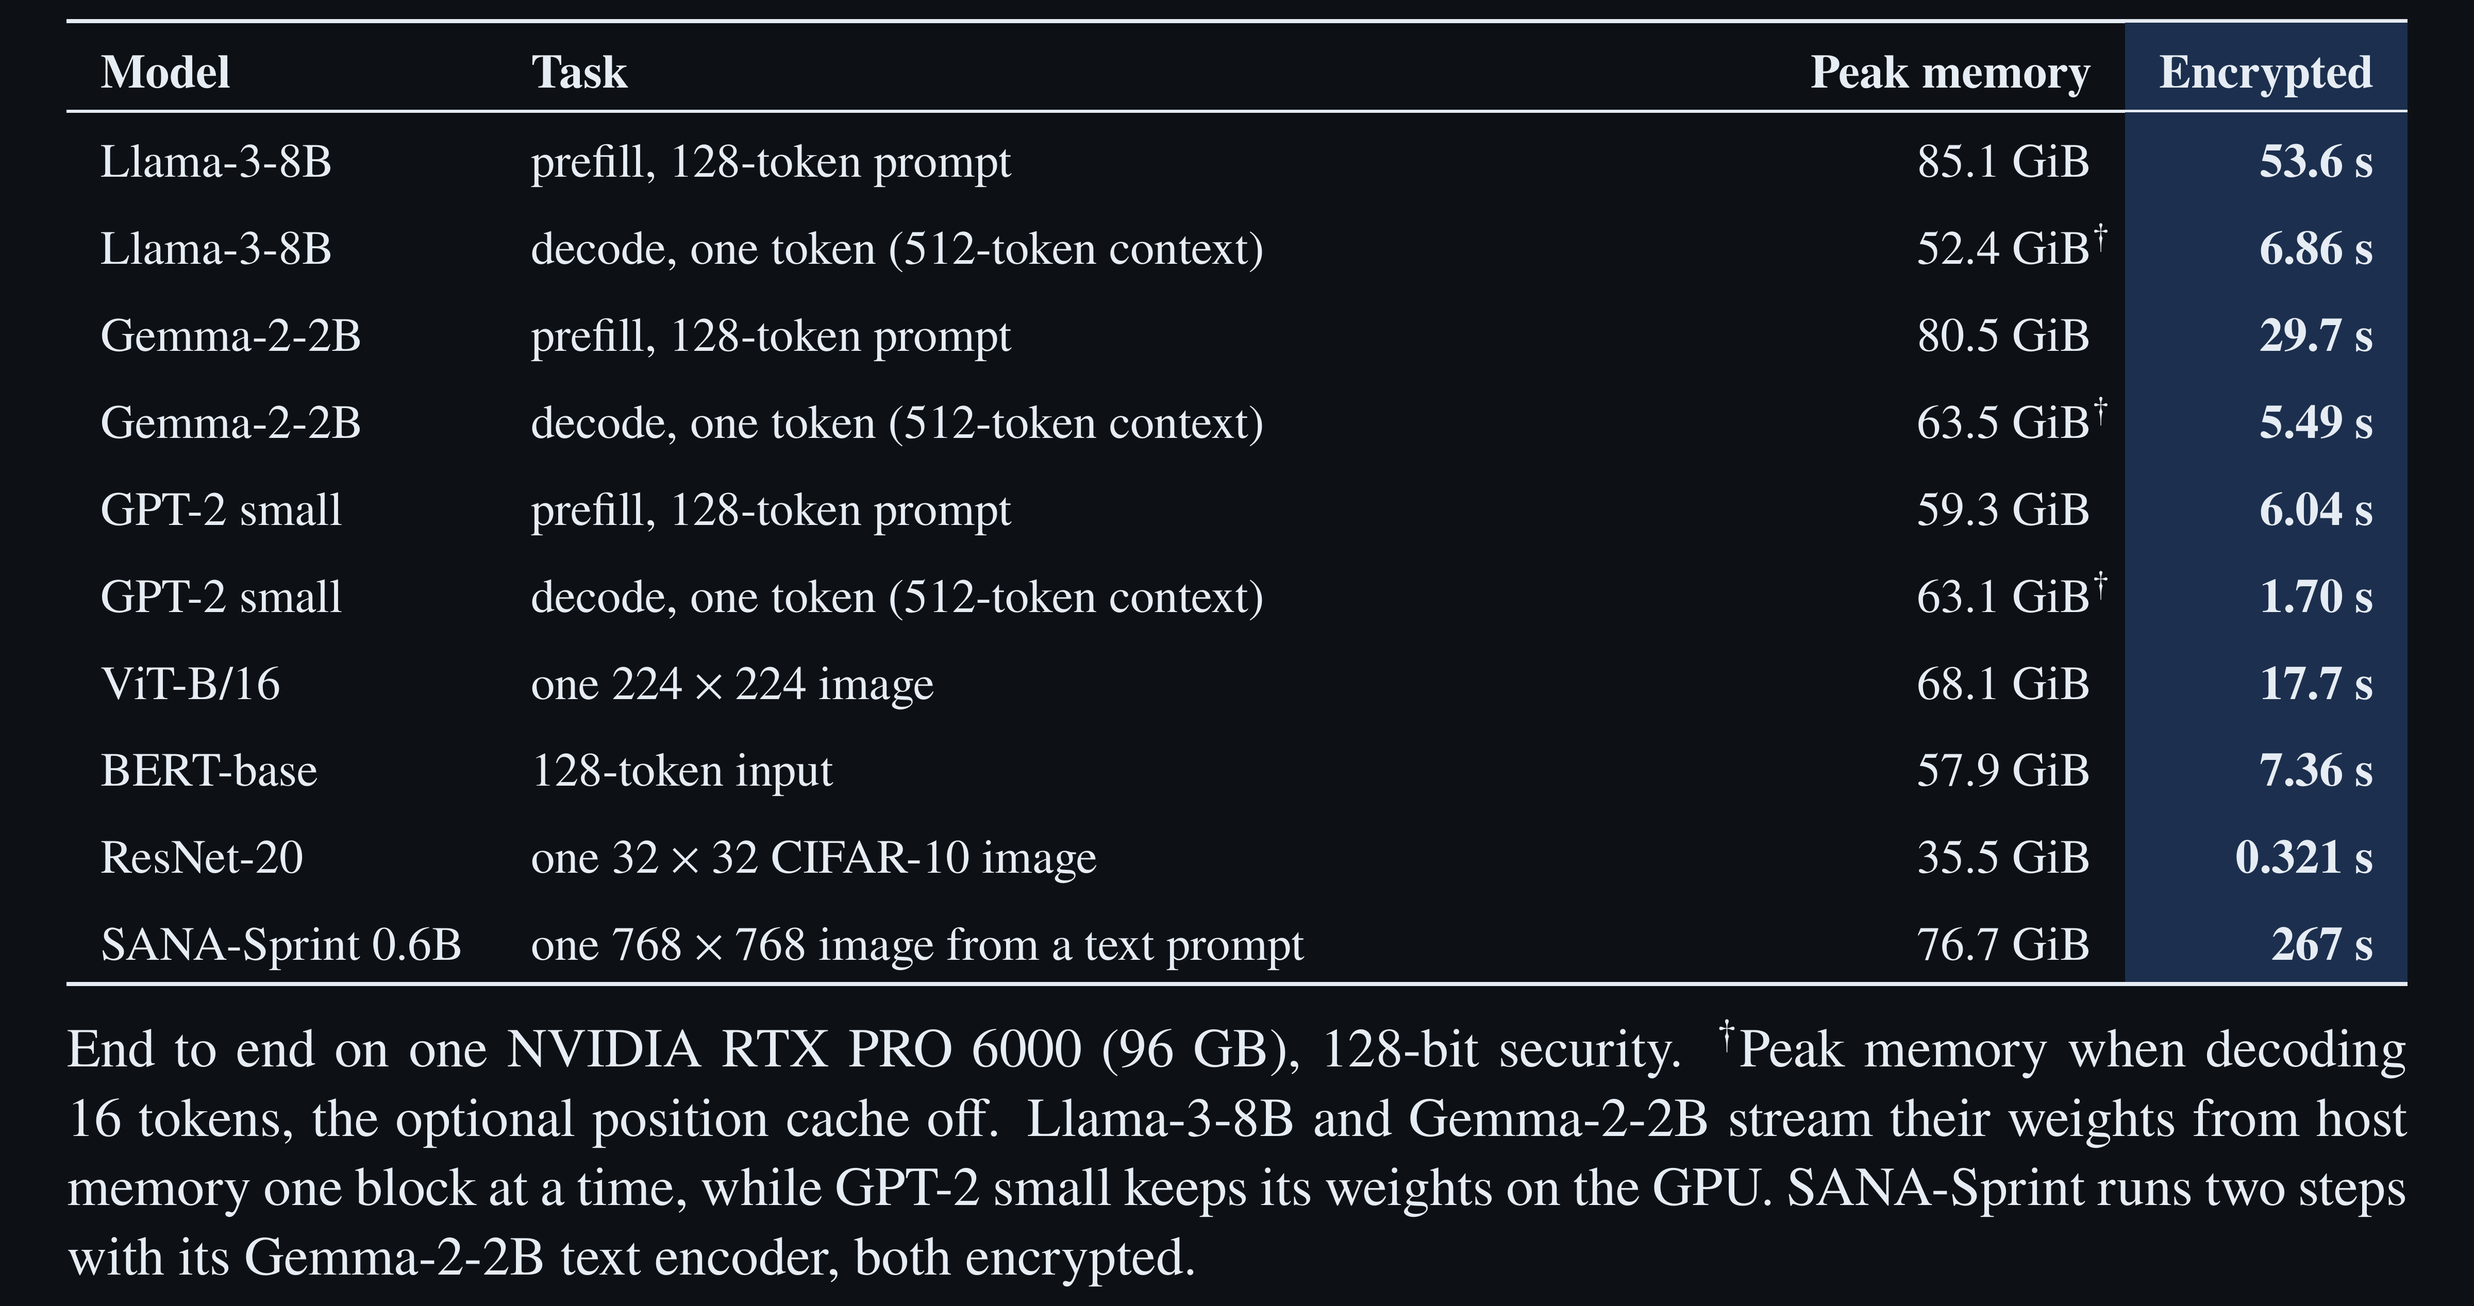
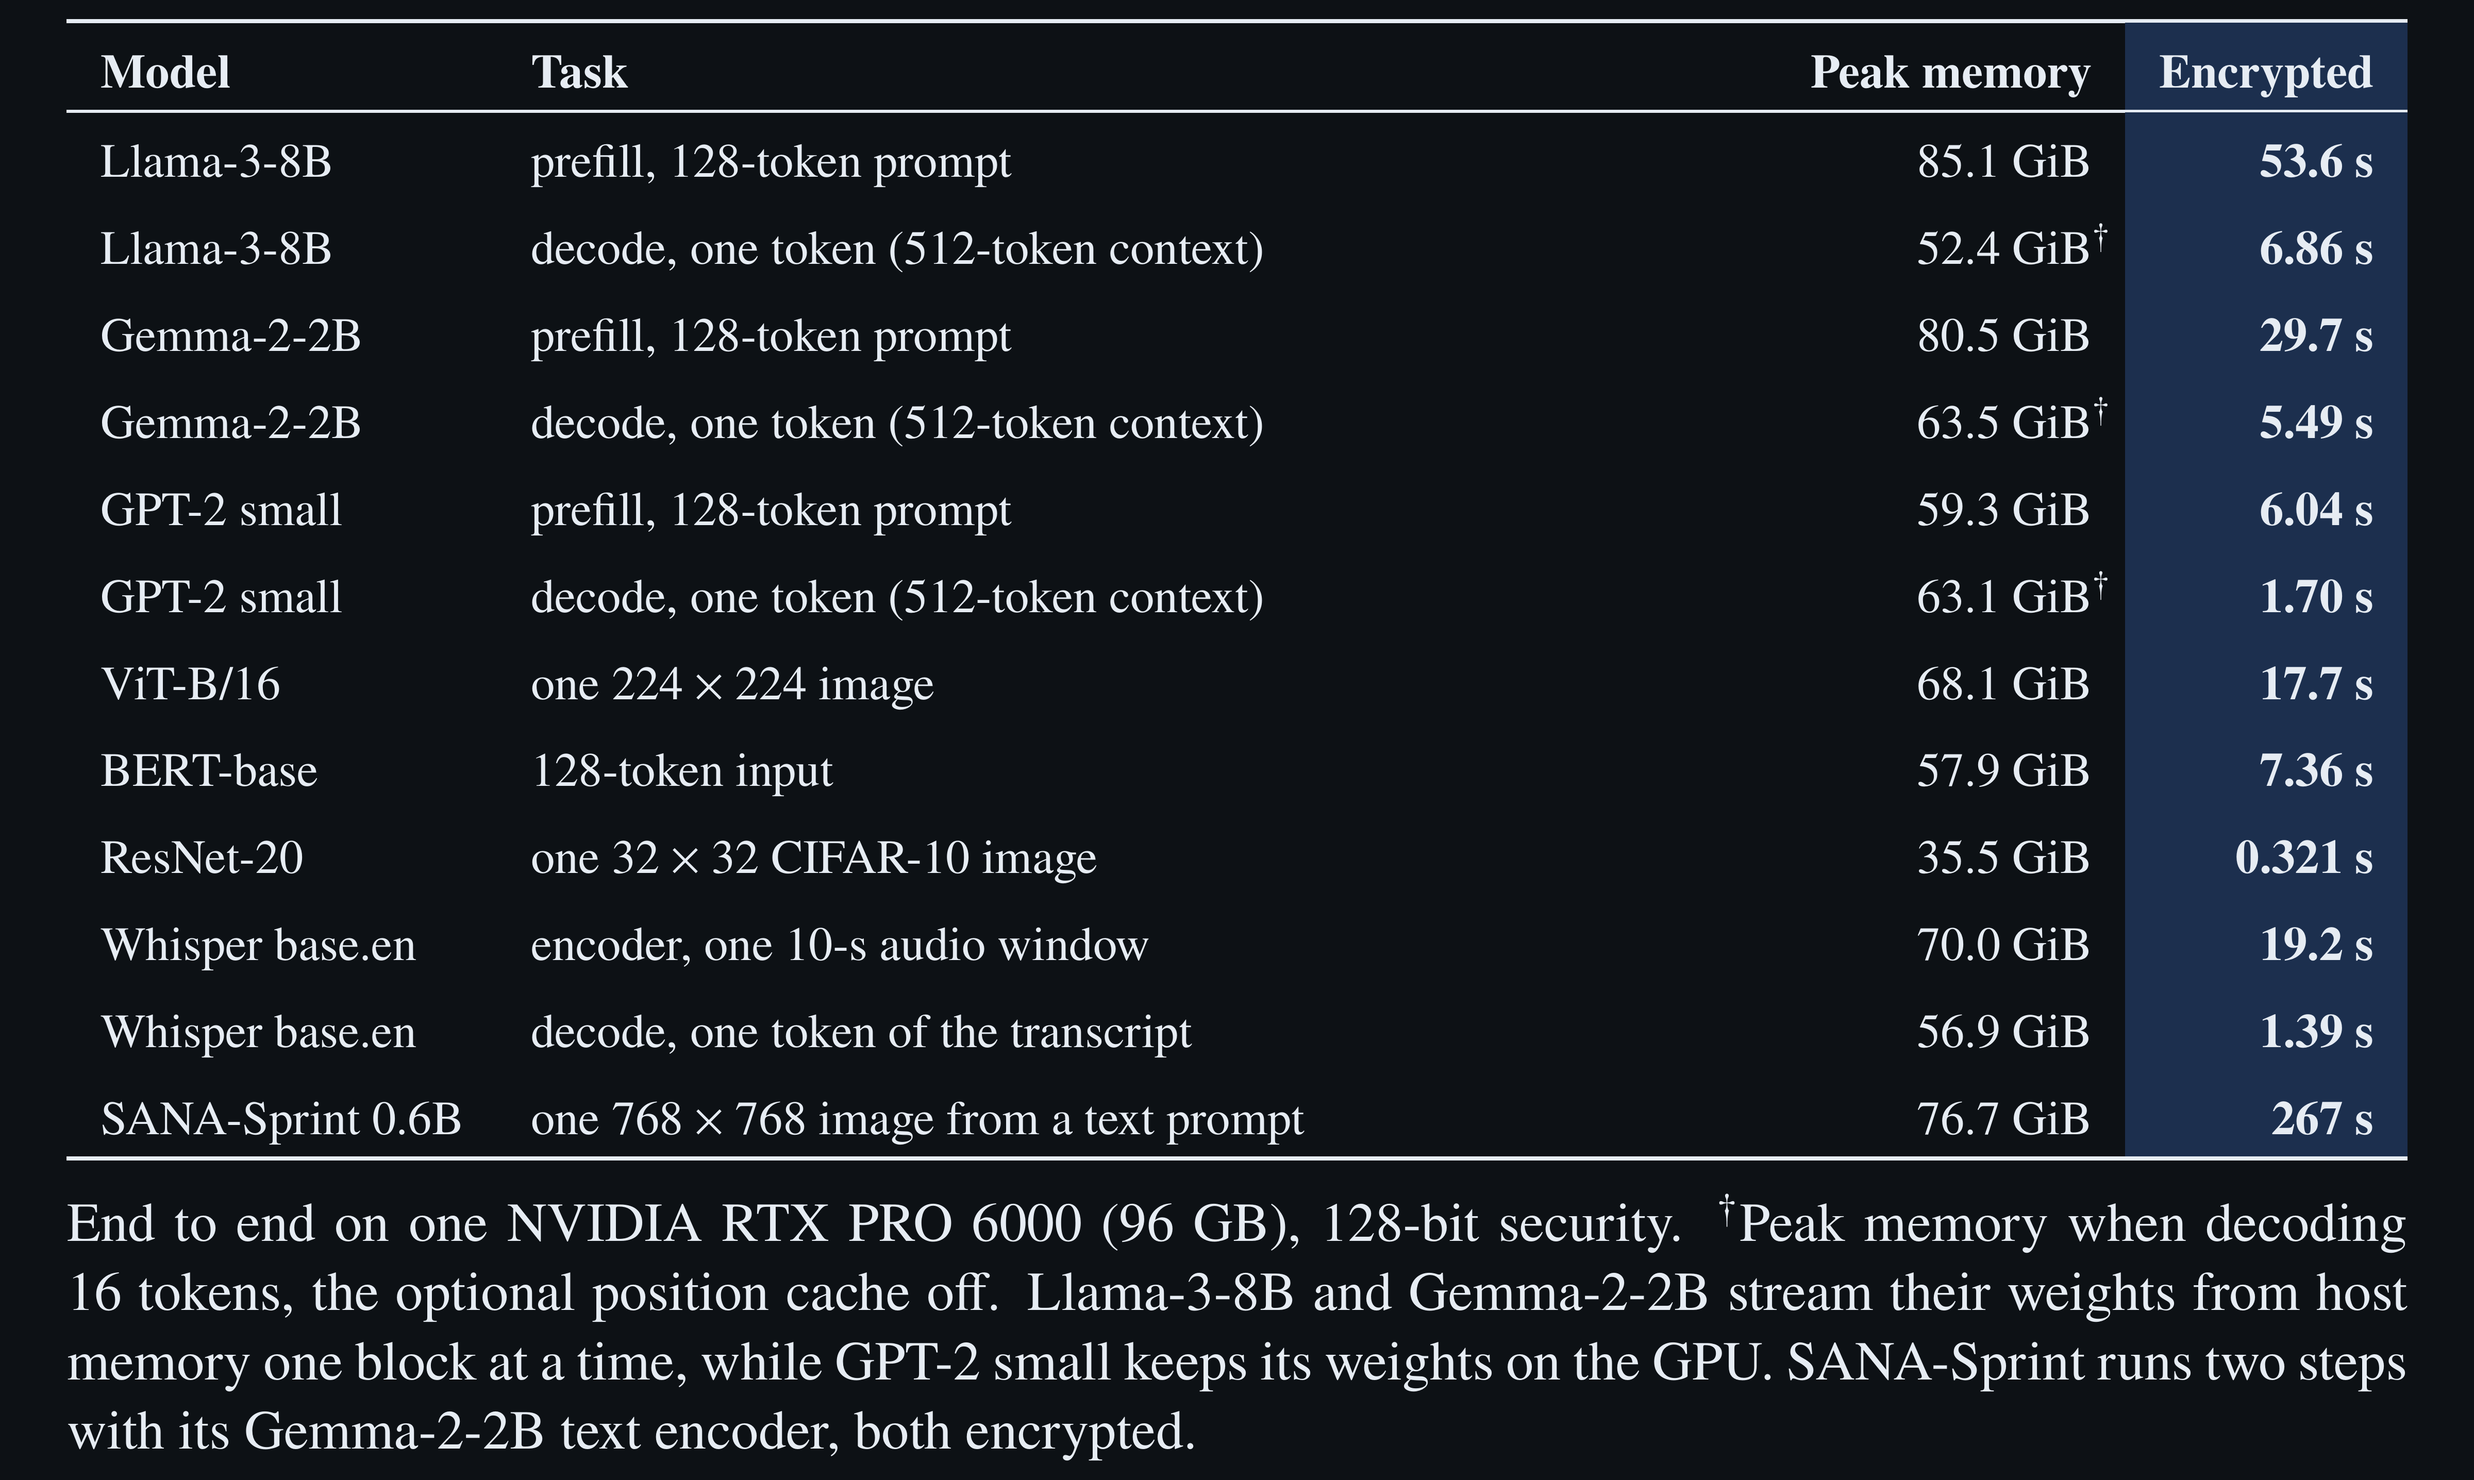
README: Whisper base.en table

diff --git a/assets/paper-tables.tex b/assets/paper-tables.tex
@@ -1,7 +1,7 @@
 % The paper's comparison tables for README.md (paper-org/main.tex, 10-19), one page per table, every table the full
 % line width. Render: bash assets/render.sh paper-tables, which writes paper-tables-<page>-{light,dark}.png in the order
 % of the pages line below. \darkmode switches the palette.
-% pages: overview llama gemma gpt2 vit bert resnet sana core
+% pages: overview llama gemma gpt2 vit bert resnet whisper sana core
 % border: 14pt left and right, 4pt top and bottom (stacked in the README, the tables sit close together)
 \documentclass[border={14pt 4pt 14pt 4pt},varwidth=17.2cm,multi=tbl]{standalone}
 \usepackage{newtxtext,newtxmath}
@@ -30,6 +30,16 @@
 % SANA-Sprint text to image (2026-11-19, the text encoder on the Gemma-2 decoder port, GPU 4 alone: forwards 2 and 3,
 % 266.59 and 266.58 s, after a 318 s first forward; lowest free 18.30 GiB)
 \newcommand{\sanaimg}{267}\newcommand{\sanamem}{76.7}
+% Whisper base.en speech to text (2026-11-21, GPU 4 alone, scripts/repro/whisper_asr.sh, 2 rounds): encoder s/clip the
+% median of the clip walls over one 10-s window (CUDA graphs, the pruned plan with its raise-drop re-pass, 1526 refreshes;
+% 19.16 / 19.16 s), decode s/token the median of the server's token times (forward + argmax drained, the client's
+% decryptions apart; 1.39 / 1.39 s over 64 tokens of 4 clips; contexts up to 64 tokens, cross attention over the 500
+% encoder positions); WER over 64 LibriSpeech test-clean clips <= 8 s spread over the split (Whisper's English
+% normalizer), the float64 greedy's beside it (2026-11-21 gate on these plans: 63/64 transcripts identical, the miss a
+% 0.035-logit near tie); memory per session: the encoder's lowest free 24.96 GiB (graphs), the decoder's 38.1 GiB
+% (PC_PT_CACHE=0 the same, 38.4 GiB on its first clip)
+\newcommand{\whisperenc}{19.2}\newcommand{\whisperdec}{1.39}\newcommand{\whisperencmem}{70.0}\newcommand{\whisperdecmem}{56.9}
+\newcommand{\whisperwer}{4.87}\newcommand{\whisperfloatwer}{4.74}\newcommand{\whisperclips}{64}
 % peak GPU memory, GiB: total (94.97) minus the lowest free of the run (the prefills replay CUDA graphs, captured in
 % the first forward after setup); the decode rows at a short context (the repro scripts' 16 tokens), without the
 % optional position cache (PC_PT_CACHE=0), Llama's and Gemma's the GPU's peak used memory over the run (their runner reports no free
@@ -65,6 +75,8 @@ GPT-2 small & decode, one token (512-token context) & \gptdecmem\ GiB\nt{\dagger
 ViT-B/16 & one $224\times224$ image & \vitmem\ GiB & \textbf{\vitimg\ s} \\
 BERT-base & 128-token input & \bertmem\ GiB & \textbf{\bertin\ s} \\
 ResNet-20 & one $32\times32$ CIFAR-10 image & \resnetmem\ GiB & \textbf{\resnetimg\ s} \\
+Whisper base.en & encoder, one 10-s audio window & \whisperencmem\ GiB & \textbf{\whisperenc\ s} \\
+Whisper base.en & decode, one token of the transcript & \whisperdecmem\ GiB & \textbf{\whisperdec\ s} \\
 SANA-Sprint 0.6B & one $768\times768$ image from a text prompt & \sanamem\ GiB & \textbf{\sanaimg\ s} \\
 \bottomrule
 \end{tabularx}
@@ -177,6 +189,19 @@ Cerium (Jayashankar et al., 2025) & 91.4\% & 0.456\nt{\S} & B200 & \yes \\
 \tcap{Encrypted ResNet-20 inference of one $32\times32$ CIFAR-10 image; top-1 on the CIFAR-10 test set (Perseus: the
 first 1,000 images, the same as its float64 model). Cheddar's library is released, its ResNet-20 is not. $^\S$From the
 paper (0.620 s on H100). \legend}
+\end{tbl}
+
+\begin{tbl}
+\begin{tabularx}{\linewidth}{Xrrrrlc}
+\toprule
+\textbf{Whisper base.en} & audio & WER & encoder (s) & s / token & GPU & open source \\
+\midrule
+\oursrow\textbf{Perseus (ours)} & 10 s & \whisperwer\% & \textbf{\whisperenc} & \textbf{\whisperdec} & RTX PRO 6000 & \yes \\
+\bottomrule
+\end{tabularx}
+\tcap{Encrypted speech to text: the Whisper base.en encoder over one 10-s audio window (clips up to 8 s), then greedy
+decoding with every token's argmax on the server. WER on \whisperclips\ LibriSpeech test-clean clips up to 8 s (Whisper's
+English normalizer); the float64 model's is \whisperfloatwer\%, and 63 of the 64 transcripts are the same as its own. \legend}
 \end{tbl}
 
 \begin{tbl}

diff --git a/README.md b/README.md
@@ -40,8 +40,8 @@ replays (its kernels descend from [FIDESlib32bits](https://github.com/gladia-res
 our 32-bit GPU port of [FIDESlib](https://github.com/CAPS-UMU/FIDESlib)).
 
 <p align="center">
-  <a href="assets/paper-tables-overview-light.png#gh-light-mode-only"><img src="assets/paper-tables-overview-light.png#gh-light-mode-only" alt="Perseus, encrypted, end to end on one RTX PRO 6000 with 128-bit security, and the peak GPU memory of each run (Llama-3-8B and Gemma-2-2B stream their weights from host memory, GPT-2 small keeps its weights on the GPU). Llama-3-8B prefill of a 128-token prompt 53.6 s (85.1 GiB), decode of one token at a 512-token context 6.86 s (52.4 GiB when decoding 16 tokens). Gemma-2-2B prefill 29.7 s (80.5 GiB), decode 5.49 s per token at a 512-token context (63.5 GiB when decoding 16 tokens). GPT-2 small prefill 6.04 s (59.3 GiB), decode 1.70 s per token at a 512-token context (63.1 GiB when decoding 16 tokens). ViT-B/16 17.7 s per image (68.1 GiB). BERT-base 7.36 s for 128 tokens (57.9 GiB). ResNet-20 0.321 s per CIFAR-10 image (35.5 GiB). SANA-Sprint 0.6B, with its Gemma-2-2B text encoder, 267 s for one 768 × 768 image from a text prompt (76.7 GiB)." width="707"></a>
-  <a href="assets/paper-tables-overview-dark.png#gh-dark-mode-only"><img src="assets/paper-tables-overview-dark.png#gh-dark-mode-only" alt="Perseus, encrypted, end to end on one RTX PRO 6000 with 128-bit security, and the peak GPU memory of each run (Llama-3-8B and Gemma-2-2B stream their weights from host memory, GPT-2 small keeps its weights on the GPU). Llama-3-8B prefill of a 128-token prompt 53.6 s (85.1 GiB), decode of one token at a 512-token context 6.86 s (52.4 GiB when decoding 16 tokens). Gemma-2-2B prefill 29.7 s (80.5 GiB), decode 5.49 s per token at a 512-token context (63.5 GiB when decoding 16 tokens). GPT-2 small prefill 6.04 s (59.3 GiB), decode 1.70 s per token at a 512-token context (63.1 GiB when decoding 16 tokens). ViT-B/16 17.7 s per image (68.1 GiB). BERT-base 7.36 s for 128 tokens (57.9 GiB). ResNet-20 0.321 s per CIFAR-10 image (35.5 GiB). SANA-Sprint 0.6B, with its Gemma-2-2B text encoder, 267 s for one 768 × 768 image from a text prompt (76.7 GiB)." width="707"></a>
+  <a href="assets/paper-tables-overview-light.png#gh-light-mode-only"><img src="assets/paper-tables-overview-light.png#gh-light-mode-only" alt="Perseus, encrypted, end to end on one RTX PRO 6000 with 128-bit security, and the peak GPU memory of each run (Llama-3-8B and Gemma-2-2B stream their weights from host memory, GPT-2 small keeps its weights on the GPU). Llama-3-8B prefill of a 128-token prompt 53.6 s (85.1 GiB), decode of one token at a 512-token context 6.86 s (52.4 GiB when decoding 16 tokens). Gemma-2-2B prefill 29.7 s (80.5 GiB), decode 5.49 s per token at a 512-token context (63.5 GiB when decoding 16 tokens). GPT-2 small prefill 6.04 s (59.3 GiB), decode 1.70 s per token at a 512-token context (63.1 GiB when decoding 16 tokens). ViT-B/16 17.7 s per image (68.1 GiB). BERT-base 7.36 s for 128 tokens (57.9 GiB). ResNet-20 0.321 s per CIFAR-10 image (35.5 GiB). Whisper base.en encoder over one 10-s audio window 19.2 s (70.0 GiB), decode 1.39 s per token of the transcript (56.9 GiB). SANA-Sprint 0.6B, with its Gemma-2-2B text encoder, 267 s for one 768 × 768 image from a text prompt (76.7 GiB)." width="707"></a>
+  <a href="assets/paper-tables-overview-dark.png#gh-dark-mode-only"><img src="assets/paper-tables-overview-dark.png#gh-dark-mode-only" alt="Perseus, encrypted, end to end on one RTX PRO 6000 with 128-bit security, and the peak GPU memory of each run (Llama-3-8B and Gemma-2-2B stream their weights from host memory, GPT-2 small keeps its weights on the GPU). Llama-3-8B prefill of a 128-token prompt 53.6 s (85.1 GiB), decode of one token at a 512-token context 6.86 s (52.4 GiB when decoding 16 tokens). Gemma-2-2B prefill 29.7 s (80.5 GiB), decode 5.49 s per token at a 512-token context (63.5 GiB when decoding 16 tokens). GPT-2 small prefill 6.04 s (59.3 GiB), decode 1.70 s per token at a 512-token context (63.1 GiB when decoding 16 tokens). ViT-B/16 17.7 s per image (68.1 GiB). BERT-base 7.36 s for 128 tokens (57.9 GiB). ResNet-20 0.321 s per CIFAR-10 image (35.5 GiB). Whisper base.en encoder over one 10-s audio window 19.2 s (70.0 GiB), decode 1.39 s per token of the transcript (56.9 GiB). SANA-Sprint 0.6B, with its Gemma-2-2B text encoder, 267 s for one 768 × 768 image from a text prompt (76.7 GiB)." width="707"></a>
 </p>
 
 ## What's inside
@@ -86,6 +86,9 @@ ours where the code is released.
   <br>
   <a href="assets/paper-tables-resnet-light.png#gh-light-mode-only"><img src="assets/paper-tables-resnet-light.png#gh-light-mode-only" alt="Encrypted ResNet-20 inference of one 32 × 32 CIFAR-10 image, seconds, and top-1 on the CIFAR-10 test set. Orion 618.2 on one CPU thread, open source; Cheddar 0.72 on RTX 5090, 91.95%, library released, ResNet-20 not; Cerium 0.456 on B200 (0.620 on H100, from the paper), 91.4%; Perseus 0.321 on RTX PRO 6000, 92.5% on the first 1,000 test images (the same as its float64 model), open source." width="707"></a>
   <a href="assets/paper-tables-resnet-dark.png#gh-dark-mode-only"><img src="assets/paper-tables-resnet-dark.png#gh-dark-mode-only" alt="Encrypted ResNet-20 inference of one 32 × 32 CIFAR-10 image, seconds, and top-1 on the CIFAR-10 test set. Orion 618.2 on one CPU thread, open source; Cheddar 0.72 on RTX 5090, 91.95%, library released, ResNet-20 not; Cerium 0.456 on B200 (0.620 on H100, from the paper), 91.4%; Perseus 0.321 on RTX PRO 6000, 92.5% on the first 1,000 test images (the same as its float64 model), open source." width="707"></a>
+  <br>
+  <a href="assets/paper-tables-whisper-light.png#gh-light-mode-only"><img src="assets/paper-tables-whisper-light.png#gh-light-mode-only" alt="Encrypted Whisper base.en speech to text. Perseus encoder over one 10-s audio window (clips up to 8 s) 19.2 s, decode 1.39 s per token, WER 4.87% on 64 LibriSpeech test-clean clips (its float64 model 4.74%), on RTX PRO 6000, open source." width="707"></a>
+  <a href="assets/paper-tables-whisper-dark.png#gh-dark-mode-only"><img src="assets/paper-tables-whisper-dark.png#gh-dark-mode-only" alt="Encrypted Whisper base.en speech to text. Perseus encoder over one 10-s audio window (clips up to 8 s) 19.2 s, decode 1.39 s per token, WER 4.87% on 64 LibriSpeech test-clean clips (its float64 model 4.74%), on RTX PRO 6000, open source." width="707"></a>
   <br>
   <a href="assets/paper-tables-sana-light.png#gh-light-mode-only"><img src="assets/paper-tables-sana-light.png#gh-light-mode-only" alt="Encrypted generation of one image from a text prompt, seconds. Perseus, SANA-Sprint 0.6B with its Gemma-2-2B text encoder, 768 × 768, 2 steps, 267 on RTX PRO 6000, encrypted end to end, open source." width="707"></a>
   <a href="assets/paper-tables-sana-dark.png#gh-dark-mode-only"><img src="assets/paper-tables-sana-dark.png#gh-dark-mode-only" alt="Encrypted generation of one image from a text prompt, seconds. Perseus, SANA-Sprint 0.6B with its Gemma-2-2B text encoder, 768 × 768, 2 steps, 267 on RTX PRO 6000, encrypted end to end, open source." width="707"></a>

diff --git a/python/perseus/examples/whisper/README.md b/python/perseus/examples/whisper/README.md
@@ -1,0 +1,17 @@
+# Encrypted speech to text
+
+Whisper base.en turns a spoken clip of up to 8 s into text fully encrypted, in 19.2 s for the audio and then 1.39 s
+per token of the transcript on one GPU. The transcripts below were produced this way from LibriSpeech test-clean
+clips.
+
+| Clip | Encrypted transcript |
+|---|---|
+| 1221-135767-0024 | Pearl, seeing the rose bushes, began to cry for a red rose and would not be pacified. |
+| 4077-13754-0000 | The army found the people in poverty and left them in comparative wealth. |
+| 1580-141084-0045 | Suddenly he heard him at the very door. There was no possible escape. |
+| 2830-3980-0062 | Not for a crown or a kingdom or our goodness, but for our sins. |
+
+```bash
+perseus-asr clip.wav
+perseus-asr first.wav second.wav
+```
